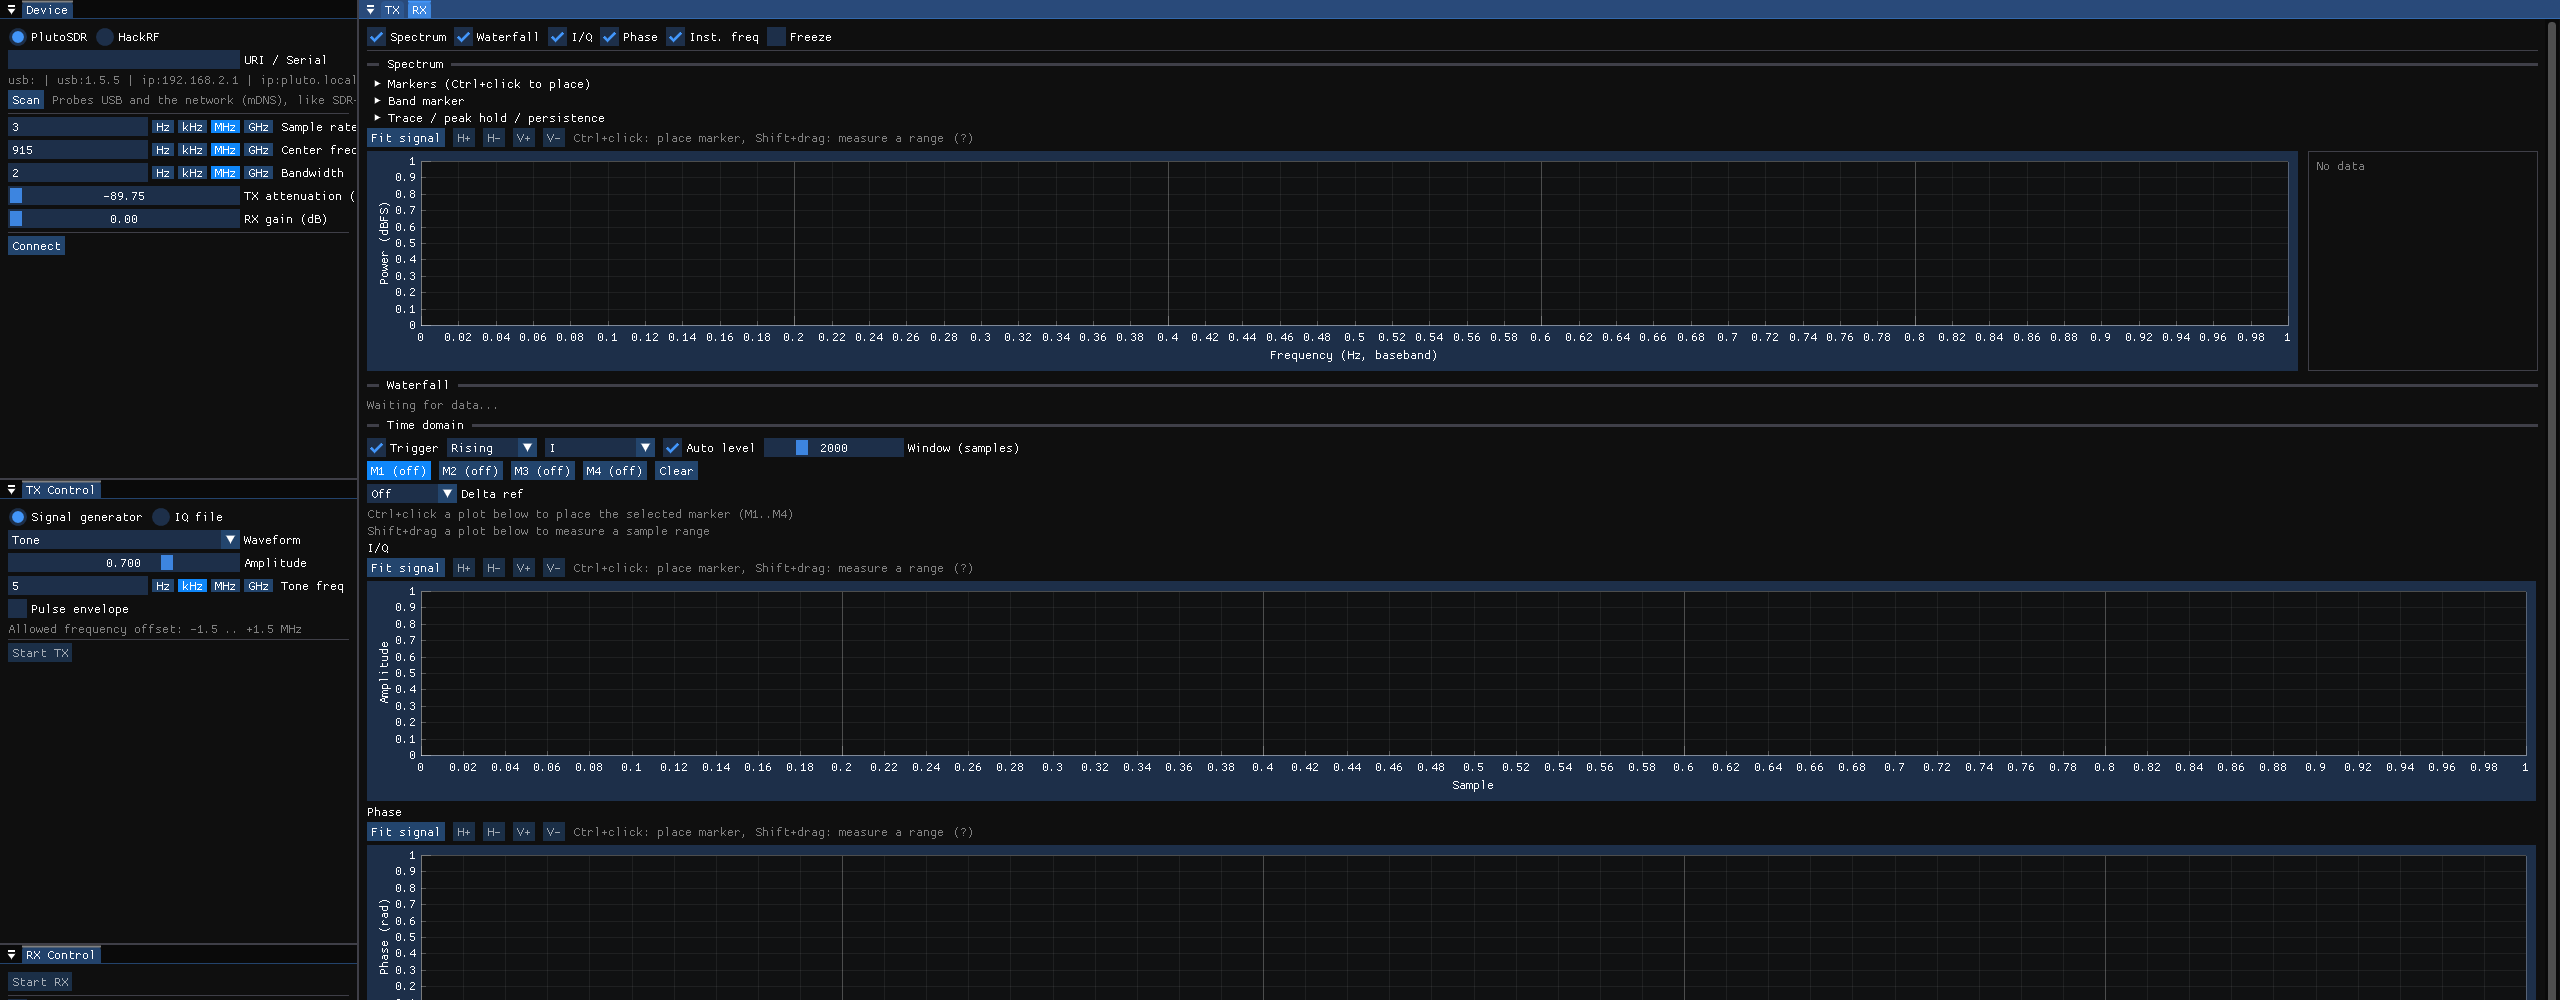
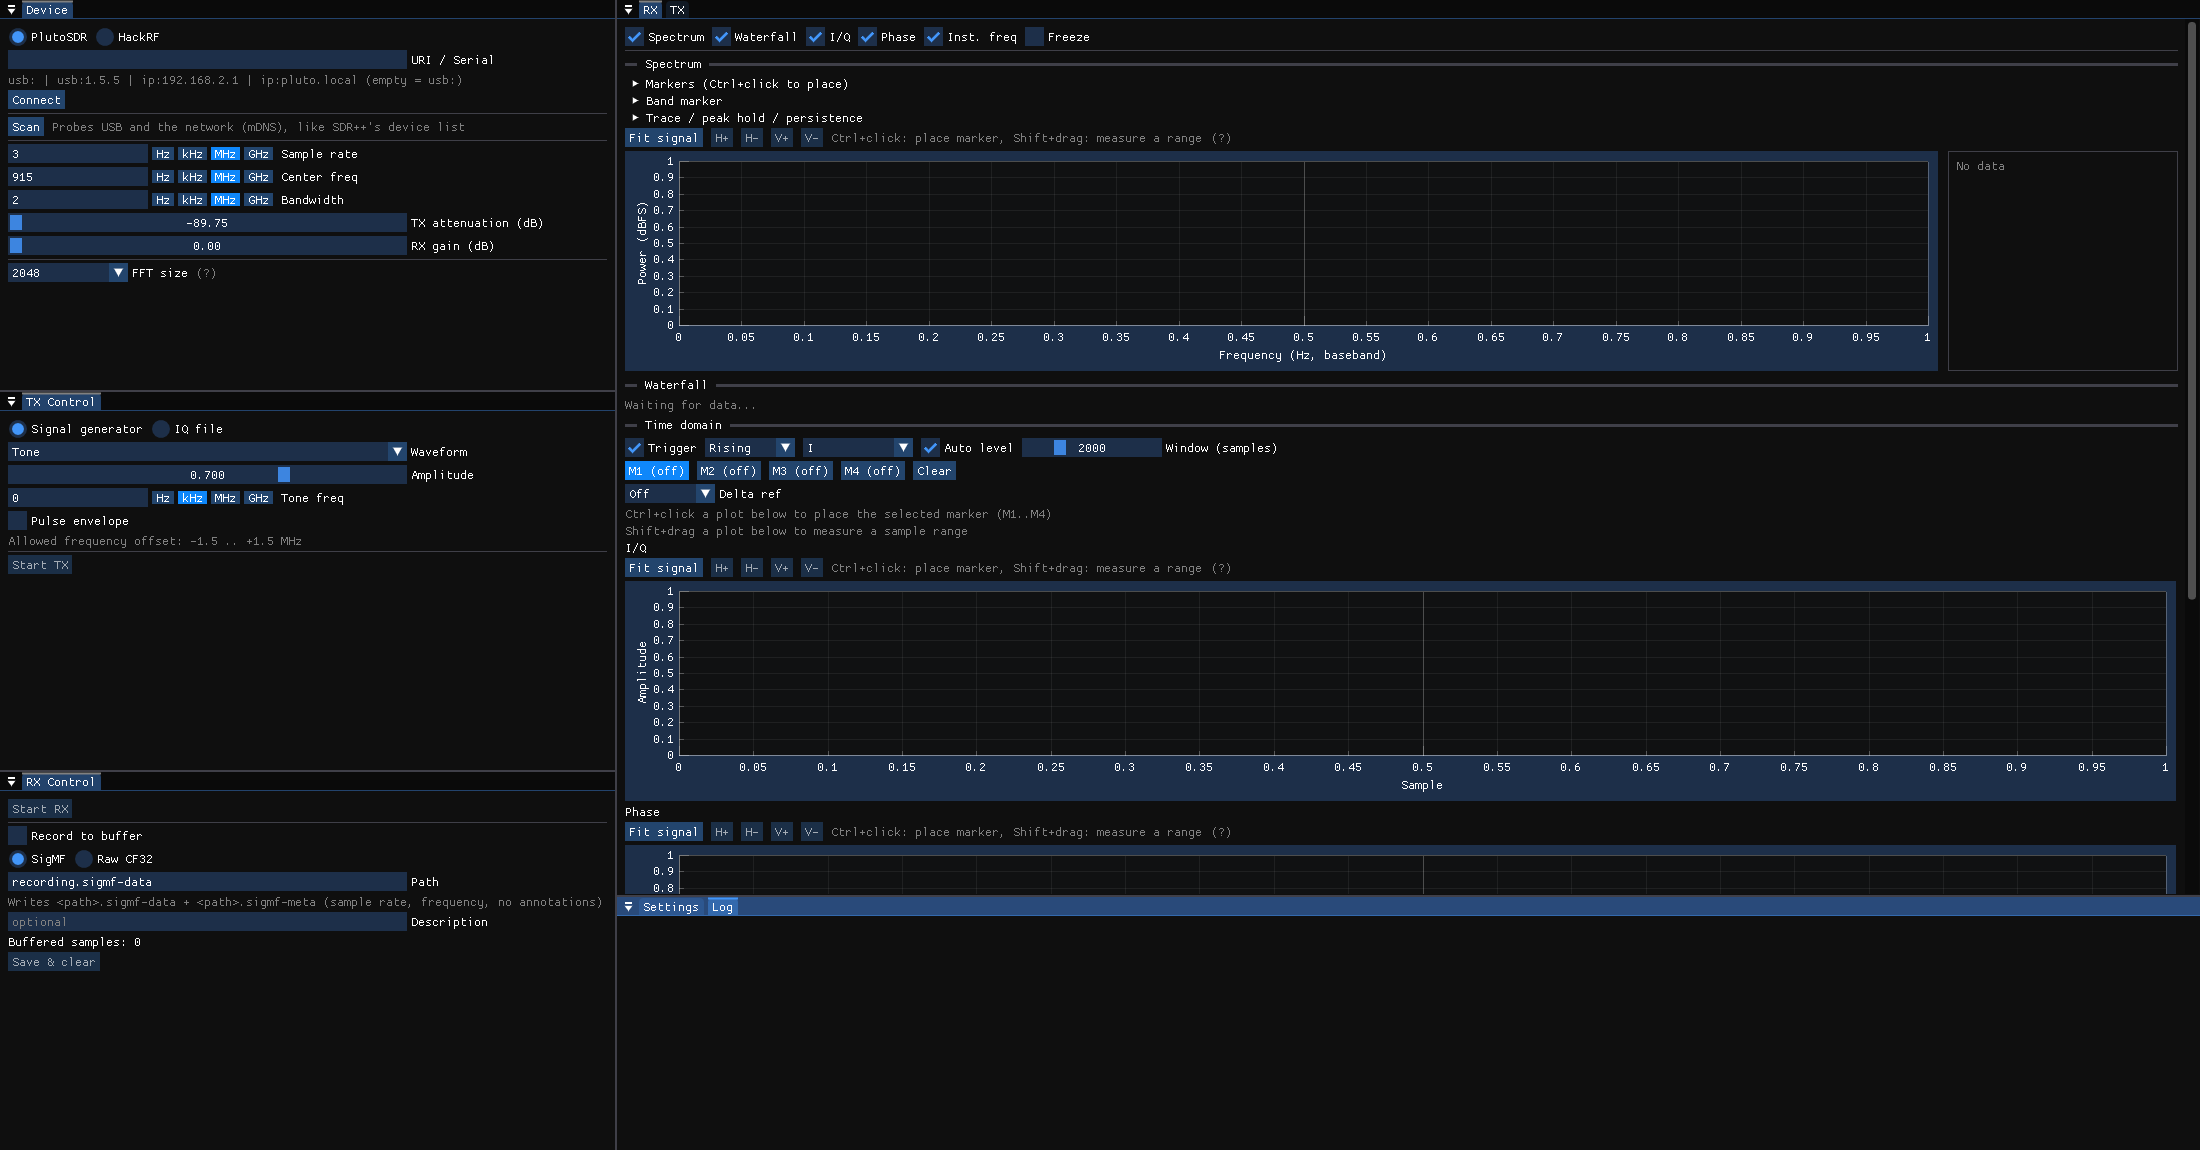
[u] readme update

Changed region(s): [[0.0, 0.0, 1.0, 1.0]]

diff --git a/README.md b/README.md
@@ -9,6 +9,7 @@
 ### Поддержка устройств
 - **PlutoSDR** и **HackRF**, с автоматическим поиском по USB/сети (mDNS/Avahi для PlutoSDR).
 - Настраиваемые частота дискретизации, центральная частота, полоса пропускания, усиление TX/RX.
+- Настраиваемый **размер FFT** (256…32768) — определяет частотное разрешение спектра/водопада; действует сразу и общий для TX и RX.
 - Проверка связи с устройством в реальном времени — интерфейс сразу показывает, если устройство отключилось.
 
 ### Генерация сигнала (TX)
@@ -71,6 +72,17 @@ Raw-форматы (`.cf32`/`.ci16`) не хранят частоту дискр
 
 **Freeze** — рядом с этими чекбоксами: ставит все графики этого направления (TX или RX по отдельности) на паузу, чтобы спокойно разглядеть/измерить статичную картинку — маркеры, зум, Shift-выделение по-прежнему работают. Сам приём/передача (и запись RX на диск, если включена) при этом не останавливаются, замирает только то, что нарисовано.
 
+#### Водопад
+
+Справа от водопада — панель с настройками отображения и компактной сводкой:
+- **Grid** — сетка поверх водопада (по умолчанию выключена: иначе почти не видна под цветом, а если включить — рисуется поверх данных, а не под ними).
+- **Colormap** — палитра (Viridis, Plasma, Hot, Jet, Greys).
+- **Min/Max (dBFS)** — диапазон уровней, отображаемый цветом.
+- **Bins / Rows / History** — сколько столбцов реально нарисовано, сколько строк истории накоплено и на какой промежуток времени она растягивается.
+- **Last peak / Last peak freq** — уровень и частота максимума в самой последней развёртке.
+
+Число отображаемых столбцов ограничено (1024) независимо от выбранного размера FFT — экран всё равно не покажет больше, а честная отрисовка десятков тысяч цветных прямоугольников на кадр заметно тормозит интерфейс. При даунсемплинге берётся максимум внутри группы бинов (а не среднее), чтобы узкий пик не размывался.
+
 #### Управление масштабом (общее для всех графиков)
 - **Колесо мыши** — зум по оси X.
 - **Shift + колесо мыши** — зум по оси Y.
@@ -119,6 +131,16 @@ Raw-форматы (`.cf32`/`.ci16`) не хранят частоту дискр
 - **Delta ref** — как и на спектре: у активного маркера появляется показание относительно выбранного опорного маркера — **dt** (интервал времени, он же измерение периода сигнала), **1/dt** (частота) и **dAmplitude** (разница |I+jQ|).
 - **Shift + выделение** диапазона сэмплов на любом из трёх графиков — тоже общее для всех троих. Под маркерами появляется строка с RMS/Peak/Crest factor/DC offset/Clipping, посчитанными только по выделенному участку (та же формула, что и в таблице измерений спектра, только по сырому куску буфера, а не по всей развёртке).
 - **Триггер** (панель над I/Q-графиком): включение, фронт (rising/falling), источник (I/Q/модуль), авто- или ручной уровень, размер окна. Текущий уровень триггера отображается на графике I/Q горизонтальной линией.
+
+### Настройки и пресеты
+
+![Панель Settings: автосохранение и пресеты](assets/screenshots/settings_presets.png)
+
+Панель **Settings** (снизу, рядом с логом):
+- **Save settings on exit / restore on startup** — включено по умолчанию: текущая конфигурация (устройство и его URI, sample rate/центральная частота/полоса, TX/RX gain, размер FFT, весь TX-генератор и файловый источник, формат/путь записи RX) сохраняется при закрытии приложения и восстанавливается при следующем запуске. Выключается тем же чекбоксом — само это состояние тоже запоминается, так что отключение переживает перезапуск.
+- **Presets** — сохранить текущую конфигурацию под произвольным именем (**Save preset**), затем в любой момент подгрузить (**Load**) или удалить (**Delete**) из списка. Работают независимо от переключателя автосохранения выше — доступны, даже если оно выключено.
+
+Файлы настроек и пресетов хранятся в `%APPDATA%\iqforge` (Windows) или `~/.config/iqforge` (Linux).
 
 ## Сборка
 
